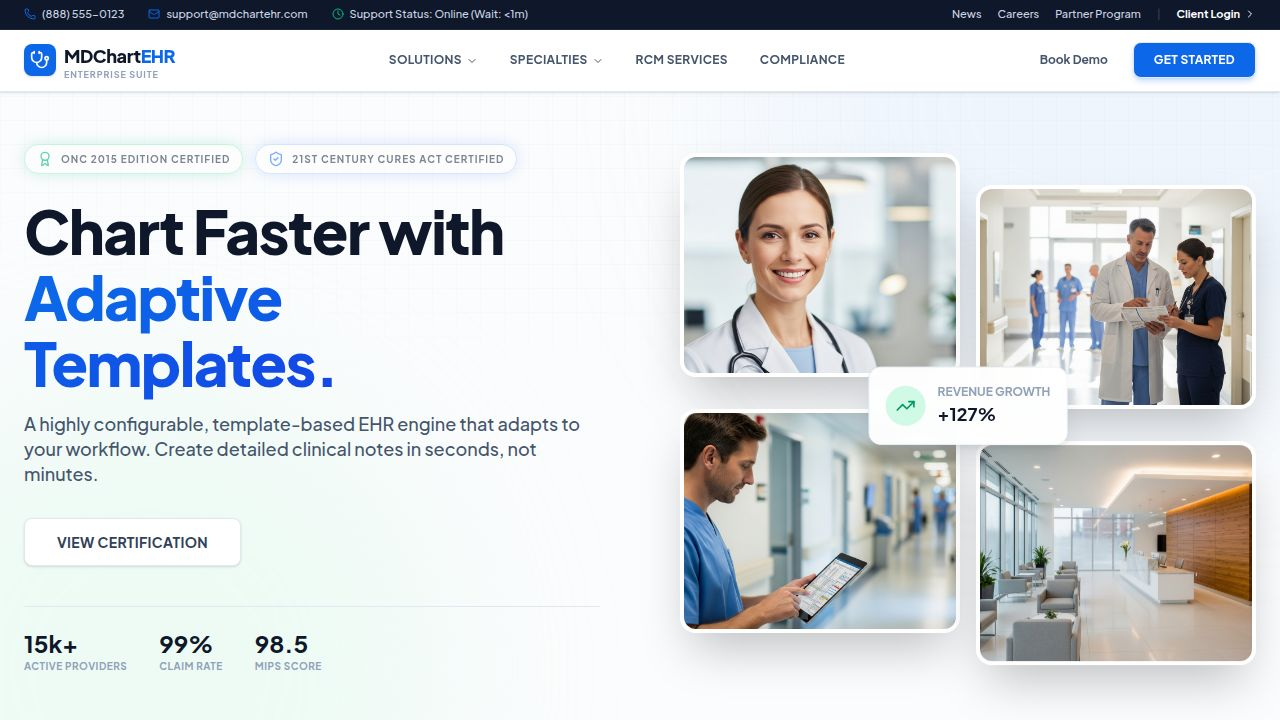
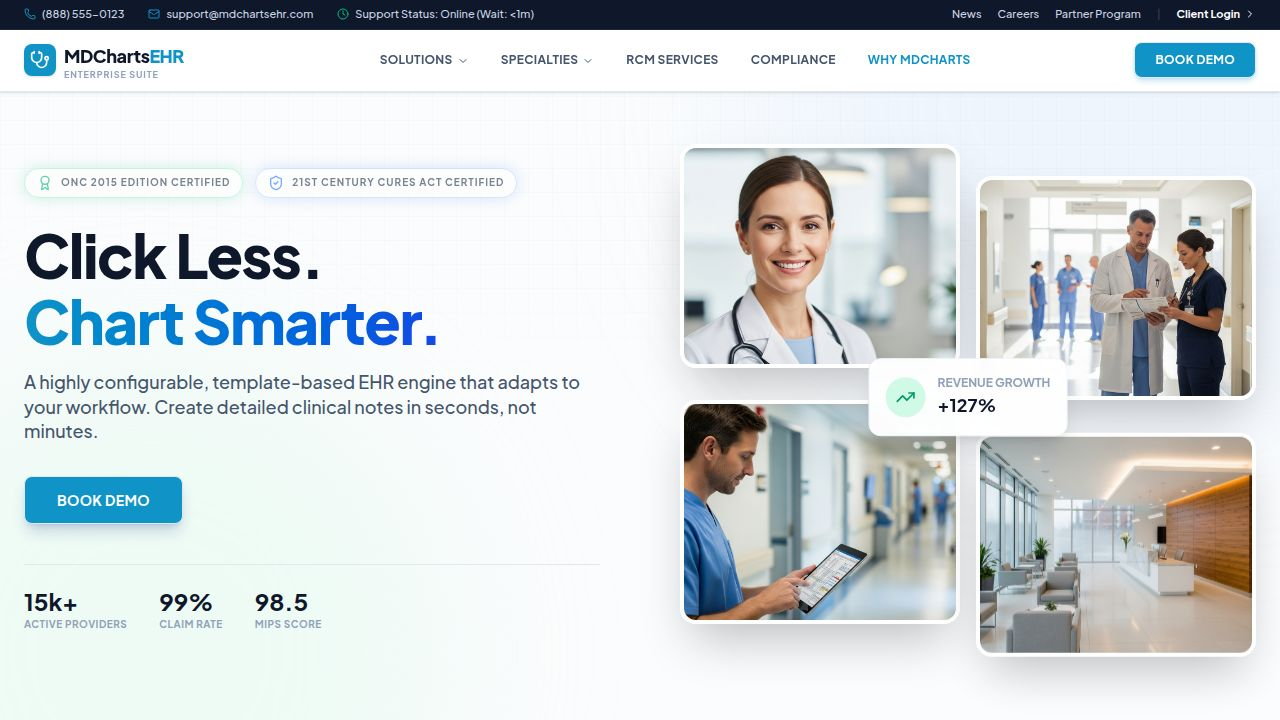
Update the primary color to a lighter cyan-tinted blue
Modify the primary and ring colors in `index.css` to use `hsl(197 85% 42%)`, a lighter cyan-tinted blue, aligning with the provided image reference.

Replit-Commit-Author: Agent
Replit-Commit-Session-Id: 06d38522-12af-48e8-88b8-949e4e4995fc
Replit-Commit-Checkpoint-Type: full_checkpoint
Replit-Commit-Event-Id: 97bafe5e-5ab6-4c82-a94d-d52ea33991d6
Replit-Commit-Screenshot-Url: https://storage.googleapis.com/screenshot-production-us-central1/b5dfba87-a687-457e-b0c4-84a10ccf5877/06d38522-12af-48e8-88b8-949e4e4995fc/ginzBCJ
Replit-Helium-Checkpoint-Created: true

diff --git a/client/src/index.css b/client/src/index.css
@@ -10,8 +10,8 @@
   --color-background: hsl(0 0% 100%);
   --color-foreground: hsl(222 47% 11%);
 
-  /* Premium Medical Blue */
-  --color-primary: hsl(215 90% 48%); 
+  /* MDChartsEHR Blue - lighter cyan-tinted blue */
+  --color-primary: hsl(197 85% 42%); 
   --color-primary-foreground: hsl(0 0% 100%);
 
   --color-secondary: hsl(210 40% 96.1%);
@@ -28,7 +28,7 @@
 
   --color-border: hsl(214.3 31.8% 91.4%);
   --color-input: hsl(214.3 31.8% 91.4%);
-  --color-ring: hsl(215 90% 48%);
+  --color-ring: hsl(197 85% 42%);
 
   --color-card: hsl(0 0% 100%);
   --color-card-foreground: hsl(222 47% 11%);
